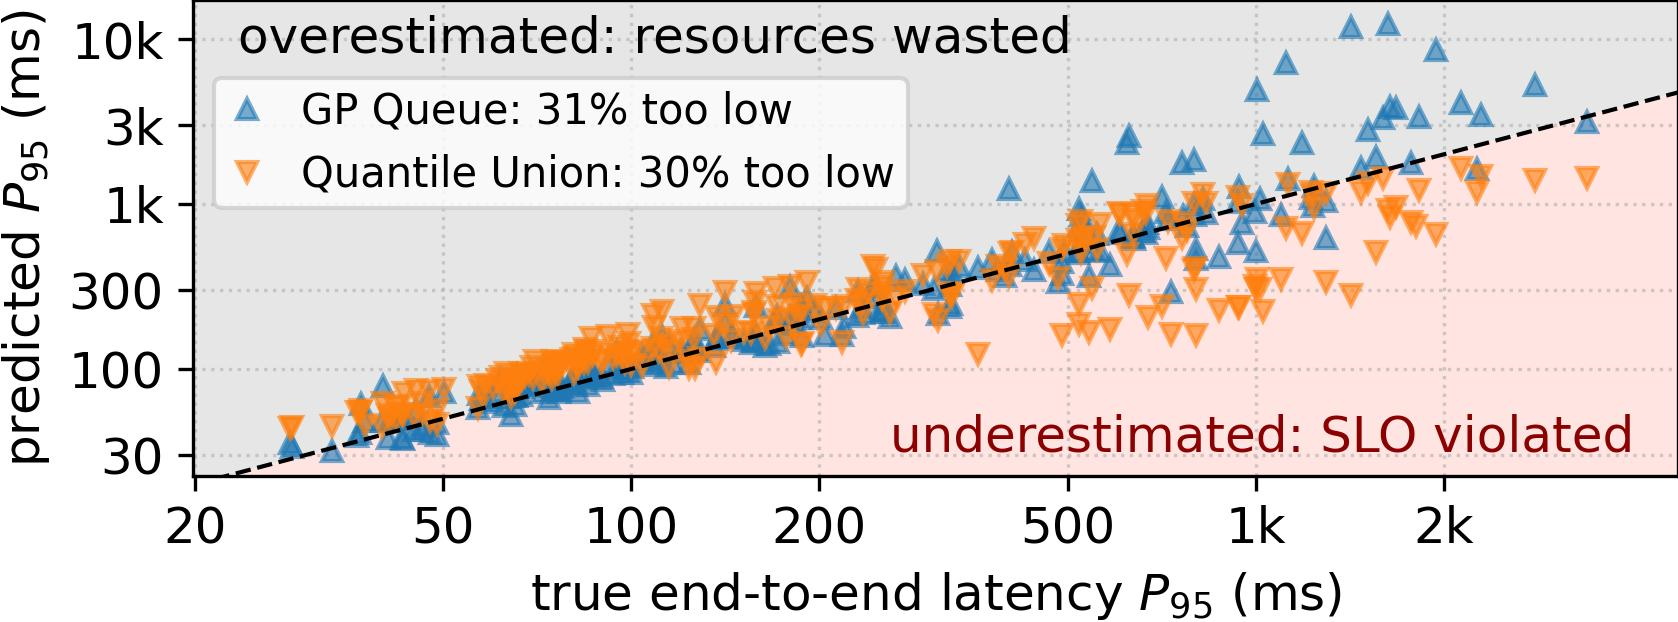
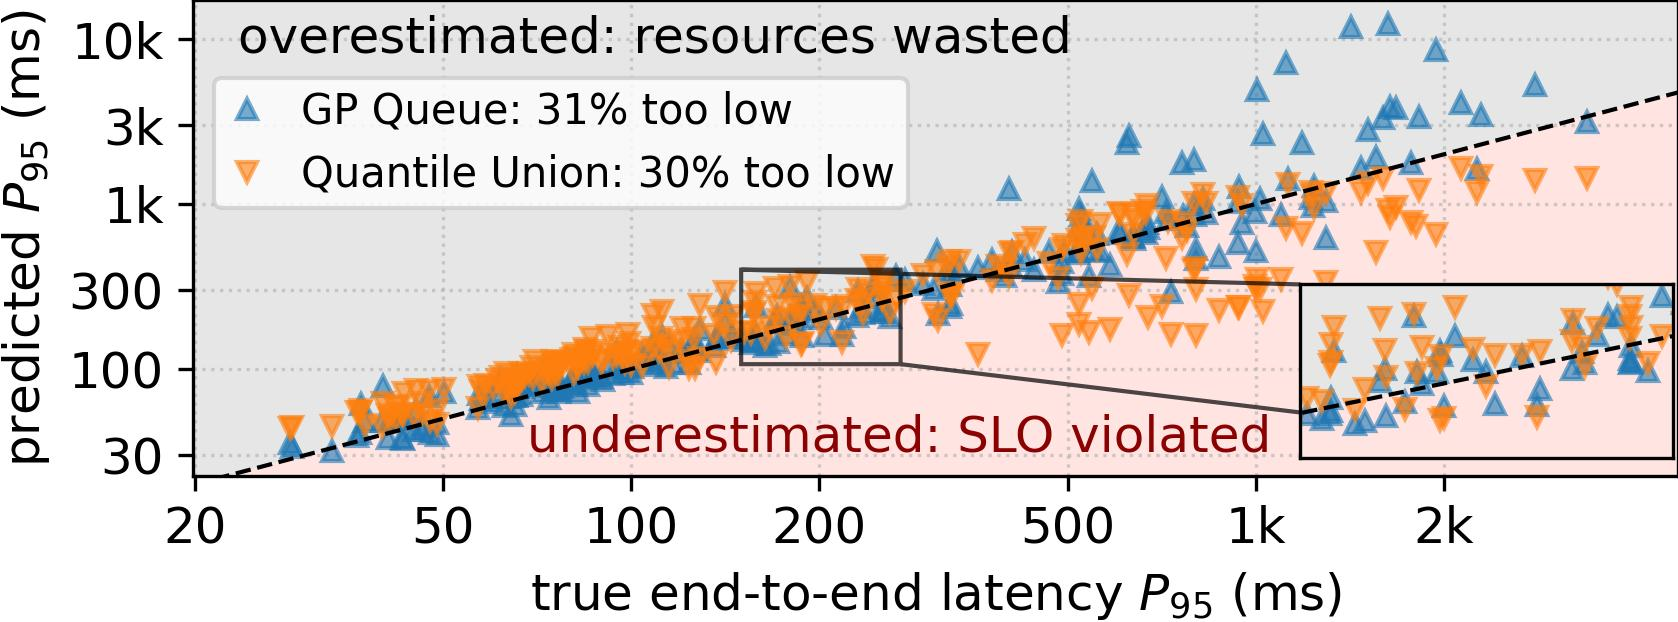
add zoom inset to problem prediction figure

diff --git a/notebooks/tsc/0_problem_figure.py b/notebooks/tsc/0_problem_figure.py
@@ -145,7 +145,7 @@ for name in point_predictors:
     ax_scatter.plot(1e3 * truth[shown[name]], 1e3 * predicted[name][shown[name]], marker, color=METHOD_COLORS[name], markersize=5, alpha=0.6,
                     linestyle="none", label=f"{name}: {below:.0%} too low")
 ax_scatter.text(0.03, 0.97, "overestimated: resources wasted", transform=ax_scatter.transAxes, ha="left", va="top")
-ax_scatter.text(0.97, 0.03, "underestimated: SLO violated", transform=ax_scatter.transAxes, ha="right", va="bottom", color="darkred")
+ax_scatter.text(0.225, 0.03, "underestimated: SLO violated", transform=ax_scatter.transAxes, ha="left", va="bottom", color="darkred")   # as far left as stays inside the red zone, to leave the bottom right corner to the zoom inset
 ax_scatter.set_xscale("log")
 ax_scatter.set_yscale("log")
 ax_scatter.set_xlim(x_low, x_high)
@@ -160,6 +160,25 @@ for set_ticks, (a, b), candidates in ((ax_scatter.set_xticks, (x_low, x_high), (
     ticks = [t for t in candidates if a <= t <= b]
     set_ticks(ticks, [tick_text(t) for t in ticks])
 ax_scatter.minorticks_off()
+
+# Zoom inset in the bottom right corner: the same points, in the window around a true latency of ZOOM_X ms, where the
+# scatter is densest and the two predictors lie on both sides of the diagonal
+ZOOM_X, ZOOM_Y = (150, 270), (107, 400)   # (ms) window of the inset: true latency (x) and predicted latency (y)
+inset = ax_scatter.inset_axes([0.7453, 0.0391, 0.2512, 0.3636])
+inset.set_facecolor("white")
+zoom_line = np.array([1.0, 1e4])
+inset.fill_between(zoom_line, zoom_line, 1e4, color="0.9", linewidth=0)
+inset.fill_between(zoom_line, 1.0, zoom_line, color="mistyrose", linewidth=0)
+inset.plot(zoom_line, zoom_line, color="black", linewidth=1, linestyle="--", zorder=3)
+for name in point_predictors:
+    inset.plot(1e3 * truth[shown[name]], 1e3 * predicted[name][shown[name]], METHOD_STYLES[name][0], color=METHOD_COLORS[name], markersize=5,
+               alpha=0.6, linestyle="none")
+inset.set_xscale("log")
+inset.set_yscale("log")
+inset.set_xlim(*ZOOM_X)
+inset.set_ylim(*ZOOM_Y)
+inset.tick_params(which="both", bottom=False, left=False, labelbottom=False, labelleft=False)   # no ticks (major and minor): the window is stated by the box in the main plot
+ax_scatter.indicate_inset_zoom(inset, edgecolor="black", alpha=0.7, linewidth=1)
 ax_scatter.legend(loc="upper left", bbox_to_anchor=(0, 0.88), fontsize=10, handlelength=1, borderpad=0.3, framealpha=0.8)   # in the empty corner below the zone label
 save(fig_scatter, "problem_prediction")
 
